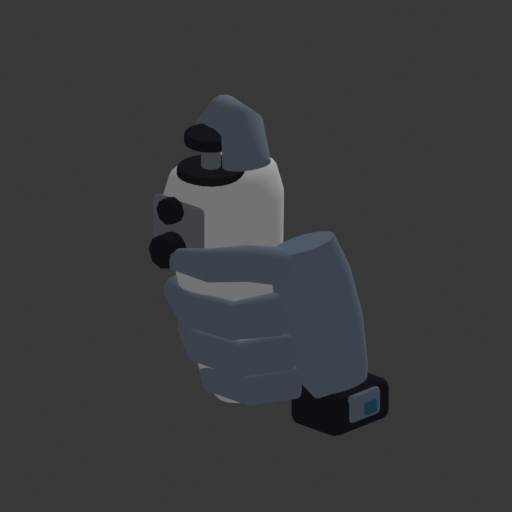
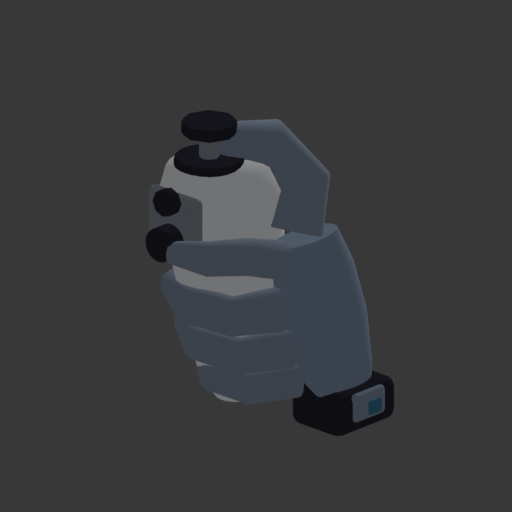
Keep the stick thumb attached at its palm pivot

diff --git a/tools/hand_assembly.py b/tools/hand_assembly.py
@@ -8,6 +8,13 @@ ROOT=Path(__file__).resolve().parents[1]
 sys.path.insert(0,str(ROOT/'assets/guns/src'))
 from common import BUILT_MODELS,plan
 
+def between(a,b):
+    la=math.sqrt(sum(x*x for x in a));lb=math.sqrt(sum(x*x for x in b))
+    a=[v/la for v in a];b=[v/lb for v in b]
+    q=[a[1]*b[2]-a[2]*b[1],a[2]*b[0]-a[0]*b[2],a[0]*b[1]-a[1]*b[0],1+sum(x*y for x,y in zip(a,b))]
+    length=math.sqrt(sum(x*x for x in q))
+    return [v/length for v in q]
+
 def compile_assembly():
     models={}
     for mid in BUILT_MODELS:
@@ -16,9 +23,11 @@ def compile_assembly():
         rotation=[math.sin(pitch/2),0,0,math.cos(pitch/2)]
         hands={hand:dict(asset=f'assets/hands/grip-hand-{hand}.glb',node='grip',translation=[0,0,0],rotation_xyzw=rotation,finger_pose={}) for hand in ('right','left')}
         if mid=='con-stick-grip':
-            for pose in hands.values():
+            for hand,pose in hands.items():
                 pose['translation']=[0,-.005,.012]
-                pose['finger_pose']={'pivot_thumb':dict(translation_offset=[0,.040,-.026],rotation_xyzw=[-.3826834324,0,0,.9238795325])}
+                sign=1 if hand=='right' else -1
+                # Keep the base at the palm; turn the distal direction to the cap.
+                pose['finger_pose']={'pivot_thumb':dict(translation_offset=[0,0,0],rotation_xyzw=between([-sign*.037,-.010,.011],[-sign*.022,.045,-.024]),scale=[1.25,1.25,1.25])}
         anchors={n:dict(node=n,local_offset=[0,0,0],bind_position=list(d['at'])) for n,d in spec['nodes'].items() if n in ('muzzle','grip_two','pivot_trigger') or n.startswith('button_')}
         anchors['grip']=dict(node='grip',local_offset=[0,0,0],bind_position=[0,0,0])
         models[mid]=dict(hands=hands,label_anchors=anchors)

diff --git a/tools/test_shell_models.py b/tools/test_shell_models.py
@@ -22,6 +22,10 @@ class ShellModelsTests(unittest.TestCase):
                 self.assertTrue((ROOT/pose['asset']).is_file());self.assertIn(pose['node'],nodes)
                 self.assertAlmostEqual(sum(v*v for v in pose['rotation_xyzw']),1)
                 self.assertTrue(all(math.isfinite(v) for v in pose['translation']))
+                for override in pose['finger_pose'].values():
+                    self.assertEqual(override['translation_offset'],[0,0,0])
+                    self.assertTrue(all(v>0 for v in override.get('scale',[1,1,1])))
+                    self.assertAlmostEqual(sum(v*v for v in override['rotation_xyzw']),1)
     def test_hand_anatomy_is_mirrored_without_negative_scale(self):
         import runpy
         module=runpy.run_path(str(ROOT/'assets/hands/src/grip_hand.py'))

diff --git a/assets/hands/preview_assembly.py b/assets/hands/preview_assembly.py
@@ -47,6 +47,7 @@ def main():
                 root.location+=vec(pose['translation'])
                 for node,override in pose['finger_pose'].items():
                     o=finger_nodes[node];o.location+=vec(override['translation_offset']);o.rotation_mode='QUATERNION';o.rotation_quaternion=quat(override['rotation_xyzw'])@o.rotation_quaternion
+                    o.scale=Vector(override.get('scale',[1,1,1]))
         bpy.context.view_layer.update()
         camera_data=bpy.data.cameras.new('review');camera=bpy.data.objects.new('review',camera_data);scene.collection.objects.link(camera);scene.camera=camera;camera_data.type='ORTHO'
         points=[o.matrix_world@Vector(v) for o in meshes for v in o.bound_box]

diff --git a/assets/hands/README.md b/assets/hands/README.md
@@ -13,7 +13,11 @@ rigid finger parts rather than a skin or IK rig.
 `assembly.json` is generated by `python tools/hand_assembly.py --write`.
 `models[id].hands[hand]` attaches the original hand asset to an existing model
 node using a local translation and quaternion. `finger_pose` has per-pivot
-translation offsets and rotations for the stick grip. `support_grip` identifies
+translation offsets, rotations and optional positive local scale for the stick
+grip. The thumb rotates at its palm pivot; its base is not translated away.
+Apply finger motion about its declared parent-frame axis before the rest-pose
+rotation, then the positive local scale. The review uses that same order.
+`support_grip` identifies
 the actual second grip where present. `label_anchors` references actual model
 nodes with local offsets and authored bind positions. Bind positions are a
 static review aid; a runtime consumer must transform the node and offset after

diff --git a/docs/status/guns/2026-10-11-r3.md b/docs/status/guns/2026-10-11-r3.md
@@ -10,7 +10,7 @@ Original left/right glove exports have five rigid finger pivots, four materials
 and both detail levels (1276/500 triangles each). `assets/hands/assembly.json`
 uses schema `hand-assembly/1`: metres, +Y up, -Z forward, right-handed, XYZW.
 It attaches each hand at the actual semantic grip with local transforms and
-stick-thumb pose offsets. Label anchors cover every built model's buttons,
+a palm-attached stick-thumb rotation/positive scale. Label anchors cover every built model's buttons,
 trigger, muzzle, grip and second grip where present. Runtime labels must follow
 the animated node plus offset. The CPU sheet shows gun/stick rest and maximum
 finger drives with the runtime lighting formula. Physical fit remains open.
